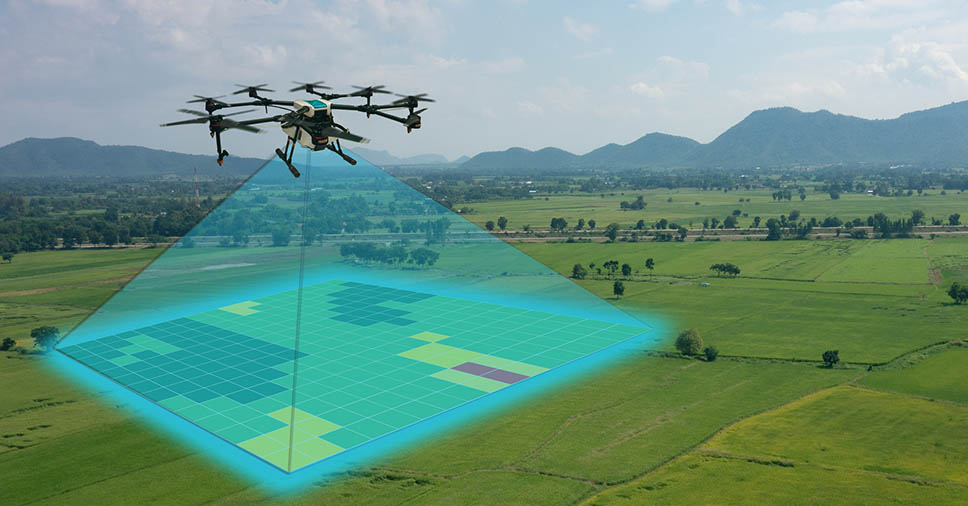
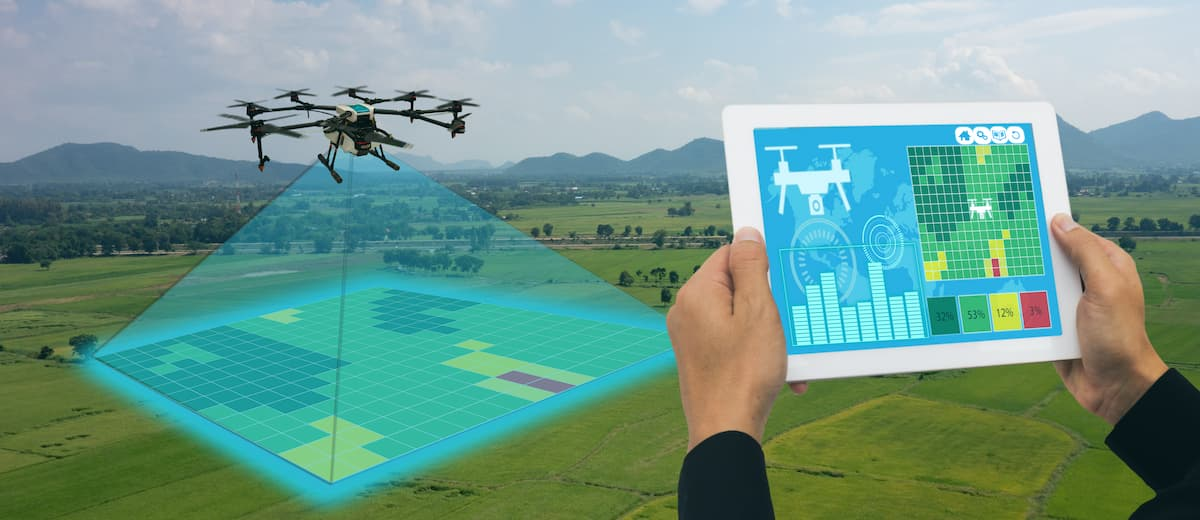
atualizando pages

diff --git a/cursos/pilotagem.html b/cursos/pilotagem.html
@@ -6,6 +6,9 @@
   <title>Curso de Pilotagem | DroneSul</title>
   <link rel="icon" type="image/x-icon" href="../src/images/logo.png">
   <link rel="stylesheet" href="../src/styles/main.css">
+  <!-- Fontes do Google Fonts -->
+  <link href="https://fonts.googleapis.com/css2?family=League+Spartan:wght@700&family=Poppins&display=swap" rel="stylesheet">
+
   
   <style>
     /* Estilos Gerais (fora das Media Queries - para Desktop por padrão) */
@@ -299,11 +302,13 @@
     #planos h2 {
       margin-top: 0;
       margin-bottom: 10px;
+      text-align: center;
     }
 
     #planos .subtitulo {
       margin-top: 0;
       margin-bottom: 80px;
+      text-align: center;
     }
 
     .planos-curso {
@@ -316,12 +321,14 @@
       font-size: 2rem;
       color: #007b8f;
       margin-bottom: 10px;
+      text-align: center;
     }
 
     .planos-curso .subtitulo {
       font-size: 1rem;
       color: #000000;
       margin-bottom: 40px;
+      text-align: center;
     }
 
     .grade-planos {
@@ -330,6 +337,7 @@
       gap: 30px;
       max-width: 1200px;
       margin: 0 auto;
+      text-align: center;
     }
 
     .plano-card {
@@ -347,6 +355,7 @@
       width: 100%;
       max-width: 260px;
       margin: 0 auto;
+      text-align: center;
     }
 
     .plano-card:hover {
@@ -364,8 +373,8 @@
     }
 
     .plano-card ul {
-      padding-left: 20px;
-      margin-bottom: 20px;
+      margin: 0 auto;
+      padding: 0;
     }
 
     .plano-card ul li {
@@ -495,12 +504,14 @@
       font-family: 'League Spartan', sans-serif;
       font-size: 28px;
       margin-bottom: 15px;
+      text-align: left;
     }
 
     .cta p {
       font-size: 16px;
       line-height: 1.5;
       margin-bottom: 30px;
+      text-align: left;
     }
 
     .cta .btn-whats {
@@ -822,6 +833,7 @@ footer.rodape { /* Adicionando o seletor 'footer' para aumentar a especificidade
         transform: scale(1); /* Reseta qualquer escala para mobile */
         box-shadow: 0 2px 5px rgba(0,0,0,0.05); /* Sombra mais suave */
         z-index: auto; /* Reseta o z-index */
+        text-align: center;
       }
 
       .plano-card.destaque {
@@ -836,15 +848,14 @@ footer.rodape { /* Adicionando o seletor 'footer' para aumentar a especificidade
       }
 
       .plano-card ul {
-        padding-left: 0; /* Remove padding da lista */
-        margin-bottom: 15px;
+        margin: 0 auto;
+        padding: 0;
       }
 
       .plano-card ul li {
         font-size: 0.85rem;
         margin-bottom: 6px;
-        text-align: left; /* Alinha o texto da lista à esquerda */
-        padding-left: 20px; /* Espaço para o "check" customizado */
+        text-align: center; 
         position: relative; /* Para o ::before funcionar */
       }
 
@@ -897,11 +908,13 @@ footer.rodape { /* Adicionando o seletor 'footer' para aumentar a especificidade
       .cta h2 {
         font-size: 1.6rem;
         margin-bottom: 10px;
+        text-align: left;
       }
 
       .cta p {
         font-size: 0.85rem;
         margin-bottom: 15px;
+        text-align: left;
       }
 
       .cta .btn-whats {
@@ -1076,8 +1089,8 @@ footer.rodape { /* Adicionando o seletor 'footer' para aumentar a especificidade
       .faq-icon { font-size: 0.9rem; }
       .faq-answer { font-size: 0.8rem; padding: 0 12px 8px; }
 
-      .cta h2 { font-size: 1.4rem; }
-      .cta p { font-size: 0.8rem; }
+      .cta h2 { font-size: 1.4rem; text-align: left; }
+      .cta p { font-size: 0.8rem; text-align: left; }
       .cta .btn-whats { padding: 8px 15px; font-size: 0.85rem; }
 
       .contato-info h2 { font-size: 1.6rem; }

diff --git a/cursos/mapeamento.html b/cursos/mapeamento.html
@@ -6,6 +6,9 @@
     <title>Curso de Mapeamento | DroneSul</title>
     <link rel="icon" type="image/x-icon" href="../src/images/logo.png">
     <link rel="stylesheet" href="../src/styles/main.css">
+    <!-- Fontes do Google Fonts -->
+    <link href="https://fonts.googleapis.com/css2?family=League+Spartan:wght@700&family=Poppins&display=swap" rel="stylesheet">
+
     
     <style>
         /* Estilos Gerais (Padrão para Desktop) */
@@ -535,12 +538,15 @@
             font-family: 'League Spartan', sans-serif;
             font-size: 28px;
             margin-bottom: 15px;
+            text-align: left;
         }
 
         .cta p {
             font-size: 16px;
             line-height: 1.5;
             margin-bottom: 30px;
+            text-align: left;
+            text-align: left;
         }
 
         .cta .btn-whats {
@@ -980,11 +986,13 @@
             .cta h2 {
                 font-size: 1.6rem;
                 margin-bottom: 10px;
+                text-align: left;
             }
 
             .cta p {
                 font-size: 0.85rem;
                 margin-bottom: 15px;
+                text-align: left;
             }
 
             .cta .btn-whats {
@@ -1178,6 +1186,7 @@ footer.rodape { /* Adicionando o seletor 'footer' para aumentar a especificidade
             /* CTA Meio */
             .cta-meio h2 {
                 font-size: 1.4rem;
+        
             }
             .cta-meio p {
                 font-size: 0.8rem;
@@ -1205,9 +1214,11 @@ footer.rodape { /* Adicionando o seletor 'footer' para aumentar a especificidade
             /* CTA */
             .cta h2 {
                 font-size: 1.4rem;
+                text-align: left;
             }
             .cta p {
                 font-size: 0.8rem;
+                text-align: left;
             }
             .cta .btn-whats {
                 padding: 8px 15px;

diff --git a/cursos/assistencia.html b/cursos/assistencia.html
@@ -6,6 +6,9 @@
     <title>Assistência Técnica | DroneSul</title>
     <link rel="icon" type="image/x-icon" href="../src/images/logo.png">
     <link rel="stylesheet" href="../src/styles/main.css">
+    <!-- Fontes do Google Fonts -->
+    <link href="https://fonts.googleapis.com/css2?family=League+Spartan:wght@700&family=Poppins&display=swap" rel="stylesheet">
+
     
     <style>
         /* Estilos Gerais (Padrão para Desktop) */
@@ -330,12 +333,14 @@
             font-family: 'League Spartan', sans-serif;
             font-size: 28px;
             margin-bottom: 15px;
+            text-align: left;
         }
 
         .cta p {
             font-size: 16px;
             line-height: 1.5;
             margin-bottom: 30px;
+            text-align: left;
         }
 
         .cta .btn-whats {
@@ -674,11 +679,13 @@ footer.rodape { /* Adicionando o seletor 'footer' para aumentar a especificidade
             .cta h2 {
                 font-size: 1.6rem;
                 margin-bottom: 10px;
+                text-align: left;
             }
 
             .cta p {
                 font-size: 0.85rem;
                 margin-bottom: 15px;
+                text-align: left;
             }
 
             .cta .btn-whats {
@@ -865,9 +872,11 @@ footer.rodape { /* Adicionando o seletor 'footer' para aumentar a especificidade
             /* CTA */
             .cta h2 {
                 font-size: 1.4rem;
+                text-align: left;
             }
             .cta p {
                 font-size: 0.8rem;
+                text-align: left;
             }
             .cta .btn-whats {
                 padding: 8px 15px;

diff --git a/cursos/pulverizacao.html b/cursos/pulverizacao.html
@@ -6,6 +6,9 @@
     <title>Curso de Pulverização | DroneSul</title>
     <link rel="icon" type="image/x-icon" href="../src/images/logo.png">
     <link rel="stylesheet" href="../src/styles/main.css">
+    <!-- Fontes do Google Fonts -->
+    <link href="https://fonts.googleapis.com/css2?family=League+Spartan:wght@700&family=Poppins&display=swap" rel="stylesheet">
+
     
     <style>
         /* Estilos Gerais (Padrão para Desktop) */
@@ -527,12 +530,14 @@
             font-family: 'League Spartan', sans-serif;
             font-size: 28px;
             margin-bottom: 15px;
+            text-align: left;
         }
 
         .cta p {
             font-size: 16px;
             line-height: 1.5;
             margin-bottom: 30px;
+            text-align: left;
         }
 
         .cta .btn-whats {
@@ -909,11 +914,13 @@ footer.rodape { /* Adicionando o seletor 'footer' para aumentar a especificidade
             .cta h2 {
                 font-size: 1.6rem;
                 margin-bottom: 10px;
+                text-align: left;
             }
 
             .cta p {
                 font-size: 0.85rem;
                 margin-bottom: 15px;
+                text-align: left;
             }
 
             .cta .btn-whats {
